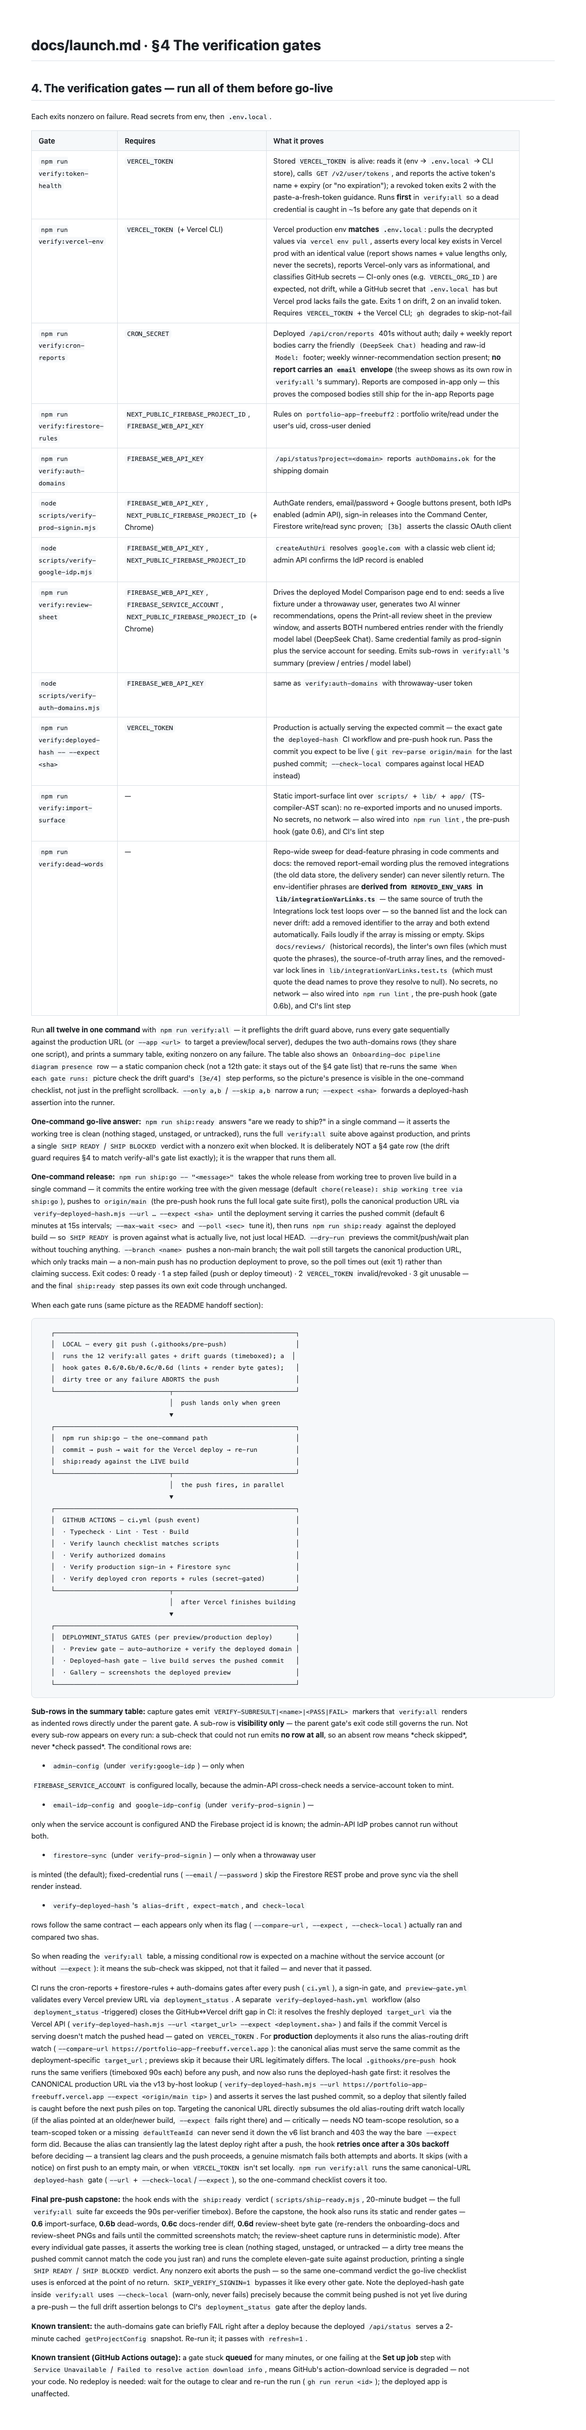
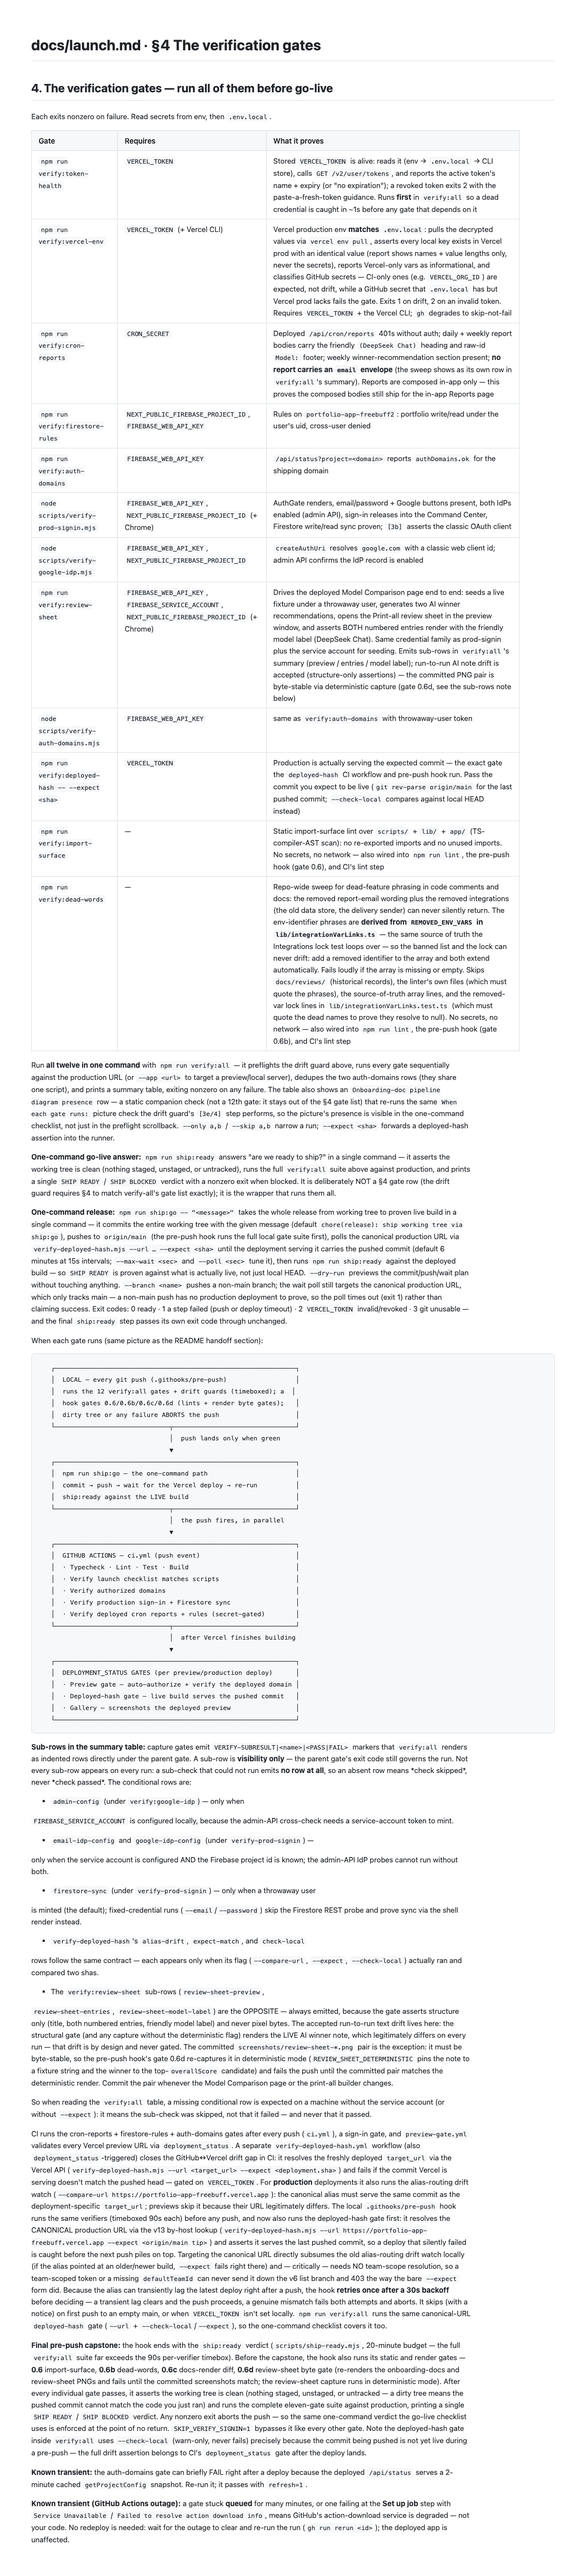
docs(launch): record the review-sheet pair's accepted run-to-run text drift
Documents the gallery contract in the verify:all sub-rows section: the
verify:review-sheet sub-rows are always emitted because the gate asserts
structure only (title, both numbered entries, model label) and never pixel
bytes — the LIVE AI winner note legitimately differs run to run, and that
drift is accepted and never gated. The committed screenshots/review-sheet-*.png
pair is the exception: it must be byte-stable, so pre-push gate 0.6d
re-captures it in deterministic mode (REVIEW_SHEET_DETERMINISTIC pins the
note and winner) and fails the push until the committed pair matches.
Also points the §4 gate-table row at the note. Re-captured docs-launch-gates.png
(the §4 section grew; the docs-render gate 0.6c enforces it).

diff --git a/docs/launch.md b/docs/launch.md
@@ -80,7 +80,7 @@ Each exits nonzero on failure. Read secrets from env, then `.env.local`.
 | `npm run verify:auth-domains` | `FIREBASE_WEB_API_KEY` | `/api/status?project=<domain>` reports `authDomains.ok` for the shipping domain |
 | `node scripts/verify-prod-signin.mjs` | `FIREBASE_WEB_API_KEY`, `NEXT_PUBLIC_FIREBASE_PROJECT_ID` (+ Chrome) | AuthGate renders, email/password + Google buttons present, both IdPs enabled (admin API), sign-in releases into the Command Center, Firestore write/read sync proven; `[3b]` asserts the classic OAuth client |
 | `node scripts/verify-google-idp.mjs` | `FIREBASE_WEB_API_KEY`, `NEXT_PUBLIC_FIREBASE_PROJECT_ID` | `createAuthUri` resolves `google.com` with a classic web client id; admin API confirms the IdP record is enabled |
-| `npm run verify:review-sheet` | `FIREBASE_WEB_API_KEY`, `FIREBASE_SERVICE_ACCOUNT`, `NEXT_PUBLIC_FIREBASE_PROJECT_ID` (+ Chrome) | Drives the deployed Model Comparison page end to end: seeds a live fixture under a throwaway user, generates two AI winner recommendations, opens the Print-all review sheet in the preview window, and asserts BOTH numbered entries render with the friendly model label (DeepSeek Chat). Same credential family as prod-signin plus the service account for seeding. Emits sub-rows in `verify:all`'s summary (preview / entries / model label) |
+| `npm run verify:review-sheet` | `FIREBASE_WEB_API_KEY`, `FIREBASE_SERVICE_ACCOUNT`, `NEXT_PUBLIC_FIREBASE_PROJECT_ID` (+ Chrome) | Drives the deployed Model Comparison page end to end: seeds a live fixture under a throwaway user, generates two AI winner recommendations, opens the Print-all review sheet in the preview window, and asserts BOTH numbered entries render with the friendly model label (DeepSeek Chat). Same credential family as prod-signin plus the service account for seeding. Emits sub-rows in `verify:all`'s summary (preview / entries / model label); run-to-run AI note drift is accepted (structure-only assertions) — the committed PNG pair is byte-stable via deterministic capture (gate 0.6d, see the sub-rows note below) |
 | `node scripts/verify-auth-domains.mjs` | `FIREBASE_WEB_API_KEY` | same as `verify:auth-domains` with throwaway-user token |
 | `npm run verify:deployed-hash -- --expect <sha>` | `VERCEL_TOKEN` | Production is actually serving the expected commit — the exact gate the `deployed-hash` CI workflow and pre-push hook run. Pass the commit you expect to be live (`git rev-parse origin/main` for the last pushed commit; `--check-local` compares against local HEAD instead) |
 | `npm run verify:import-surface` | — | Static import-surface lint over `scripts/` + `lib/` + `app/` (TS-compiler-AST scan): no re-exported imports and no unused imports. No secrets, no network — also wired into `npm run lint`, the pre-push hook (gate 0.6), and CI's lint step |
@@ -181,6 +181,19 @@ are:
   rows follow the same contract — each appears only when its flag
   (`--compare-url`, `--expect`, `--check-local`) actually ran and compared two
   shas.
+- The `verify:review-sheet` sub-rows (`review-sheet-preview`,
+  `review-sheet-entries`, `review-sheet-model-label`) are the OPPOSITE — always
+  emitted, because the gate asserts structure only (title, both numbered
+  entries, friendly model label) and never pixel bytes. The accepted run-to-run
+  text drift lives here: the structural gate (and any capture without the
+  deterministic flag) renders the LIVE AI winner note, which legitimately
+  differs on every run — that drift is by design and never gated. The
+  committed `screenshots/review-sheet-*.png` pair is the exception: it must be
+  byte-stable, so the pre-push hook's gate 0.6d re-captures it in
+  deterministic mode (`REVIEW_SHEET_DETERMINISTIC` pins the note to a fixture
+  string and the winner to the top-`overallScore` candidate) and fails the push
+  until the committed pair matches the deterministic render. Commit the pair
+  whenever the Model Comparison page or the print-all builder changes.
 
 So when reading the `verify:all` table, a missing conditional row is expected
 on a machine without the service account (or without `--expect`): it means the
